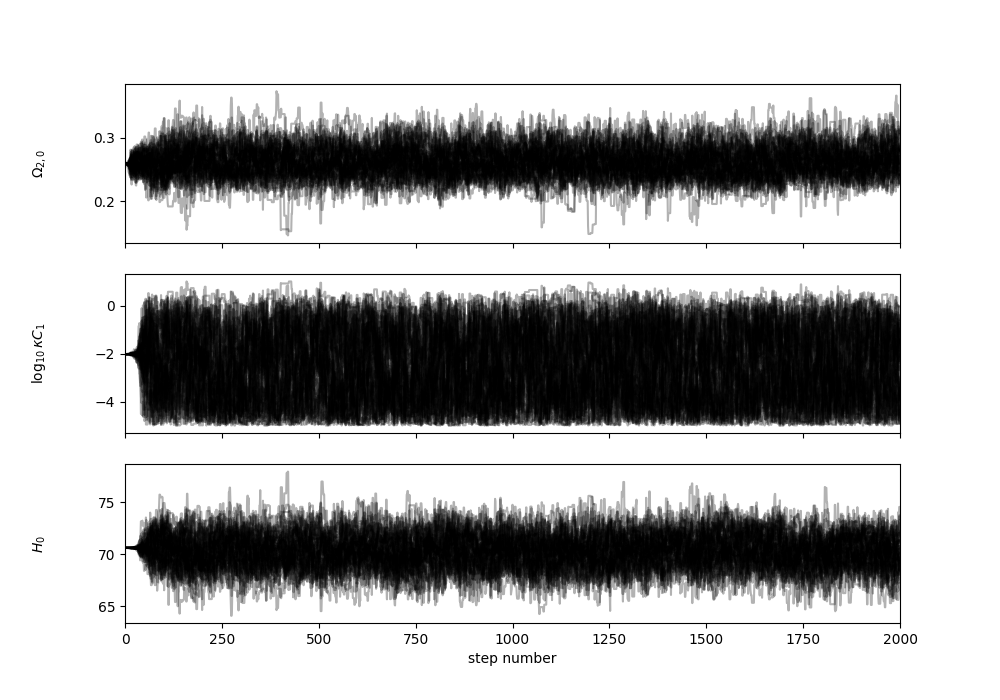
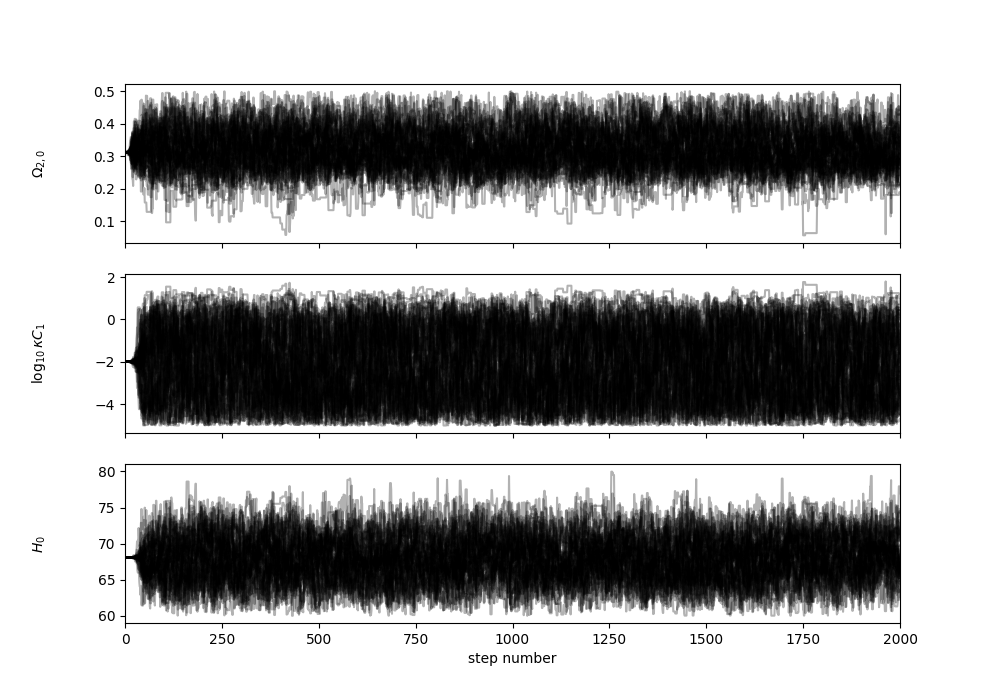
update ohd(only CC)

diff --git a/README.md b/README.md
@@ -12,6 +12,7 @@
 2. 参考文献[DESI 2024 VI](https://arxiv.org/abs/2404.03002)
 3. 数据的阐述见[notebook](/BAO/test.ipynb)
 4. 其余结构与OHD类似
+5. 注:rd与H0简并
 
 ### 关于CMB文件夹
 1. 理论参考书籍为
@@ -25,10 +26,11 @@
 
 ### 关于OHD文件夹
 1. 数据来源见参考文献,数据文件为[.csv](/OHD/OHD.csv)
-2. [test.py](/OHD/test.py)测试能否限制H0 -> [test.png](/OHD/test.png)
-3. [result.py](/OHD/result.py)完成全部内容的实现,包括mcmc与传统的格点法(格点法用于精细化作图)
+2. 数据只采用CC方法
+3. [test.py](/OHD/test.py)测试能否限制H0 -> [test.png](/OHD/test.png)
+4. [result.py](/OHD/result.py)完成全部内容的实现,包括mcmc与传统的格点法(格点法用于精细化作图)
 
 ### 关于SNe Ia文件夹
 1. 数据来源Pantheon,数据文件为[.txt](/SNe%20Ia/Pantheon.txt) & [.csv](/SNe%20Ia/Pantheon.csv)
 2. 其余文件结构与OHD文件夹类似
-3. 注:由于chi2的特殊性,理论上不可限制H0,[test.py](/SNe%20Ia/test.py)也验证了这一情况
+3. 注:由于chi2的特殊性,理论上不可限制H0(Mb与H0简并)
